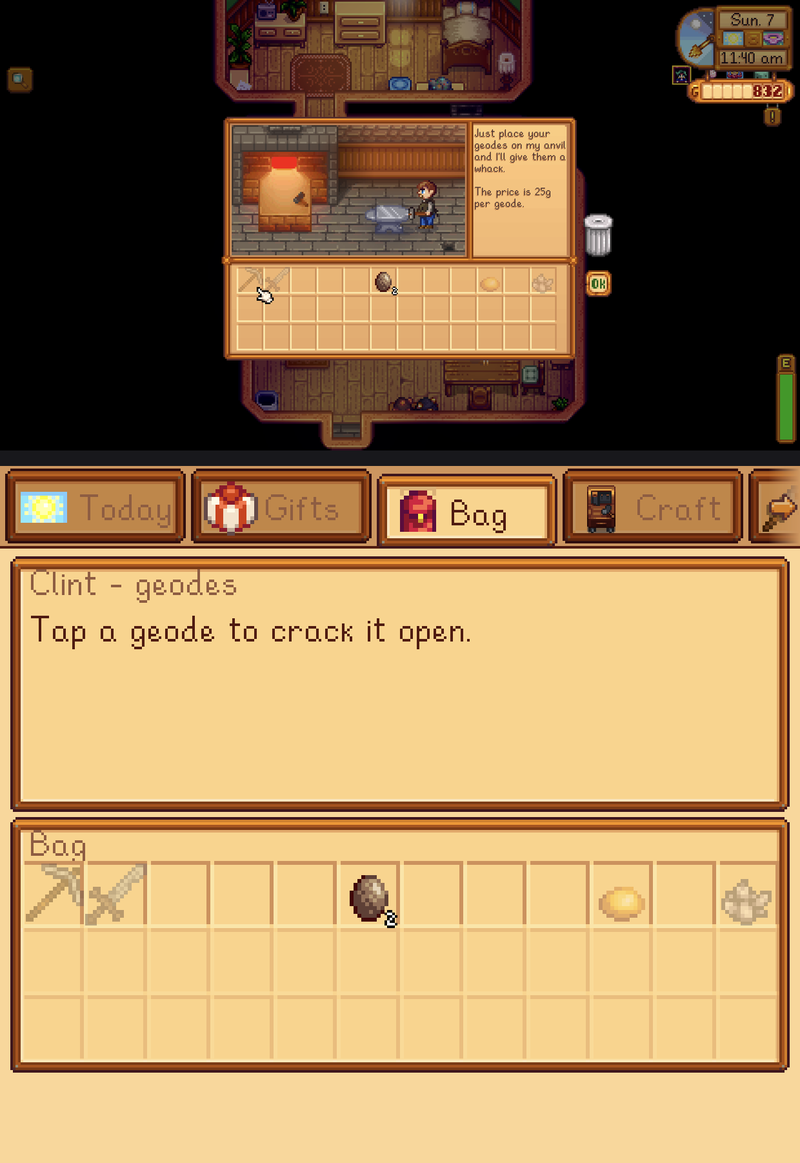
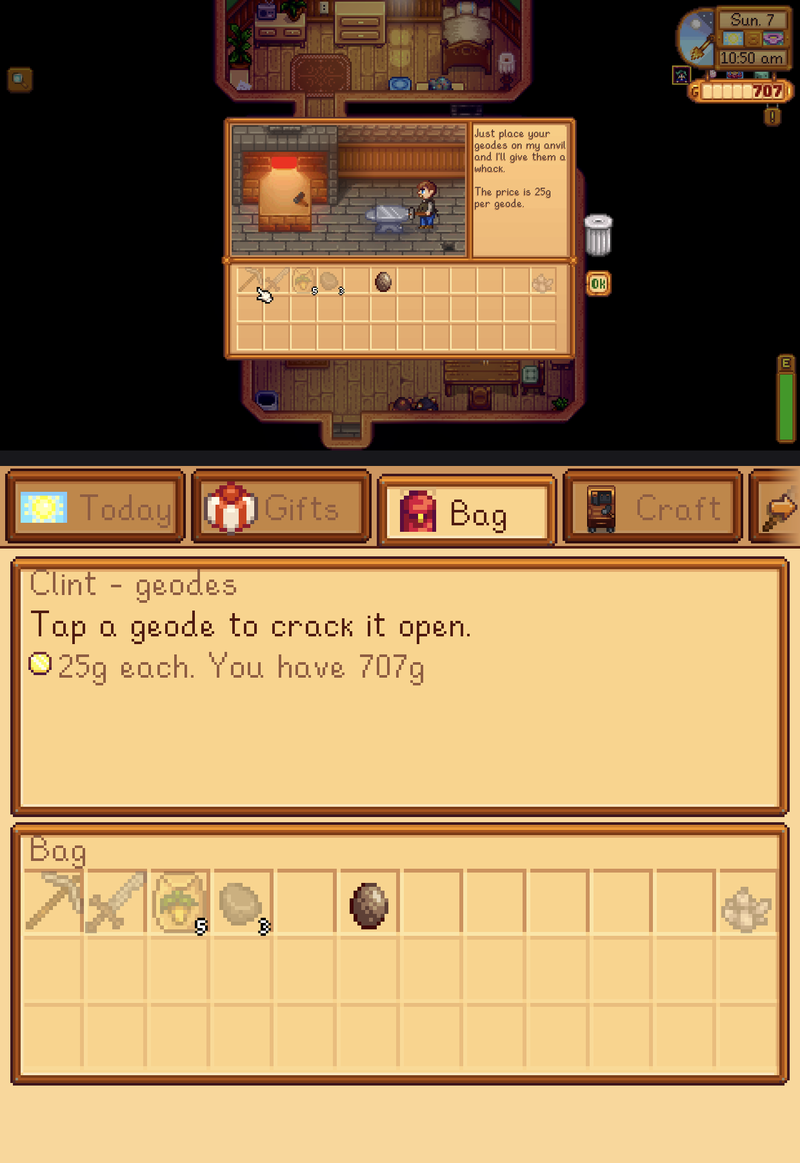
Geodes: remember the last find after the crack animation clears it; shop and geode screenshots

diff --git a/mod/Panels.cs b/mod/Panels.cs
@@ -745,7 +745,7 @@ public class Panels
         }
         if (Game1.activeClickableMenu is GeodeMenu geode)
         {
-            DrawMenuBag(b, "Clint - geodes", "Tap a geode to crack it open.", geode.geodeTreasure, "Last found",
+            DrawMenuBag(b, "Clint - geodes", "Tap a geode to crack it open.", geode.geodeTreasure ?? lastGeodeFind, "Last found",
                 $"25g each. You have {Utility.getNumberWithCommas(Game1.player.Money)}g");
             return;
         }
@@ -1422,7 +1422,11 @@ public class Panels
     {
         if (!Context.IsWorldReady && Game1.activeClickableMenu is TitleMenu tm)
             foreach (var button in tm.buttons.Take(4)) button.visible = false;
+        // The geode menu only holds the find while the crack animates; keep it for the panel.
+        if (Game1.activeClickableMenu is GeodeMenu { geodeTreasure: Item found }) lastGeodeFind = found;
     }
+
+    Item lastGeodeFind;
 
     void DrawTitle(SpriteBatch b, TitleMenu tm)
     {
